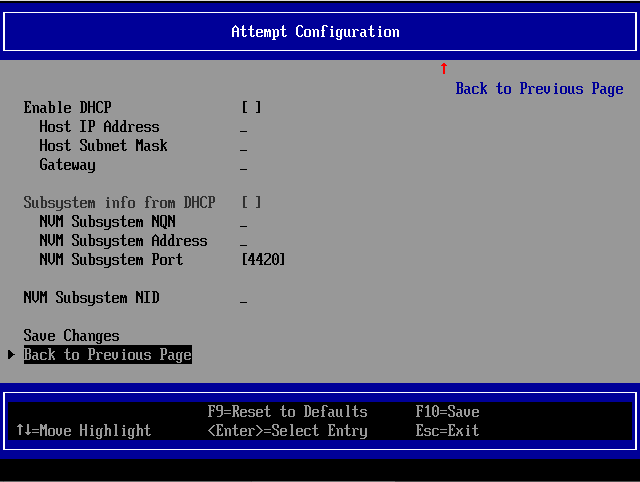
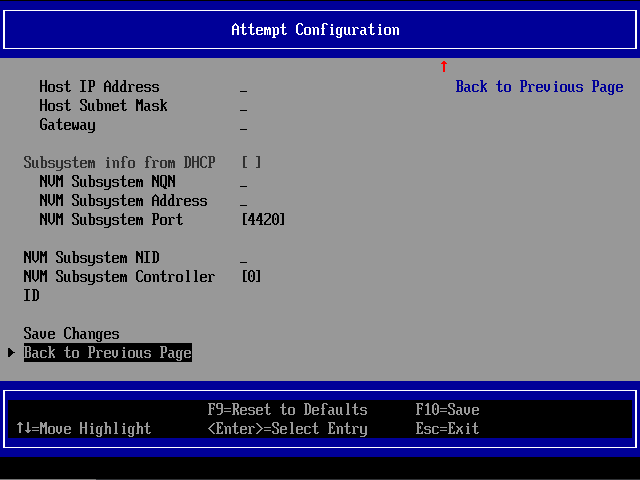
NetworkPkg/NvmeOfDxe: Add Controller ID support
Add Controller ID field to NVMeoF HII attempt pages.
Fix an issue with the Controller ID being incorrectly written to the
NBFT SSNS extended record.

diff --git a/NetworkPkg/NvmeOfDxe/NvmeOfConfig.c b/NetworkPkg/NvmeOfDxe/NvmeOfConfig.c
@@ -1,7 +1,7 @@
 /** @file
   Helper functions for configuring or getting the parameters relating to NVMe-oF.
 
-Copyright (c) 2023, Dell Inc. or its subsidiaries. All Rights Reserved.<BR>
+Copyright (c) 2023 - 2024, Dell Inc. or its subsidiaries. All Rights Reserved.<BR>
 SPDX-License-Identifier: BSD-2-Clause-Patent
 
 **/
@@ -503,10 +503,11 @@ NvmeOfConfigUpdateAttemptInfoList (
       NewAttempt                 = &AttemptInfo->Data;
       NewAttempt->NvmeofAuthType = NVMEOF_AUTH_TYPE_NONE;
 
-      SubsysConfigData                     = &NewAttempt->SubsysConfigData;
-      SubsysConfigData->NvmeofSubsysPortId = SUBSYS_PORT_DEFAULT;
-      SubsysConfigData->NvmeofTimeout      = CONNECT_DEFAULT_TIMEOUT;
-      SubsysConfigData->NvmeofRetryCount   = CONNECT_DEFAULT_RETRY;
+      SubsysConfigData                           = &NewAttempt->SubsysConfigData;
+      SubsysConfigData->NvmeofSubsysPortId       = SUBSYS_PORT_DEFAULT;
+      SubsysConfigData->NvmeofTimeout            = CONNECT_DEFAULT_TIMEOUT;
+      SubsysConfigData->NvmeofRetryCount         = CONNECT_DEFAULT_RETRY;
+      SubsysConfigData->NvmeofSubsysControllerId = NVMEOF_CONTROLLER_ID_DEFAULT;
     }
 
     //
@@ -984,10 +985,11 @@ NvmeOfConvertAttemptConfigDataToIfrNvData (
   SubsysConfigData  = &Attempt->SubsysConfigData;
   IfrNvData->IpMode = SubsysConfigData->NvmeofIpMode;
 
-  IfrNvData->HostInfoDhcp         = SubsysConfigData->HostInfoDhcp;
-  IfrNvData->NvmeofSubsysInfoDhcp = SubsysConfigData->NvmeofSubsysInfoDhcp;
-  IfrNvData->NvmeofTargetPort     = SubsysConfigData->NvmeofSubsysPortId;
-  IfrNvData->ConnectRetryCount    = SubsysConfigData->NvmeofRetryCount;
+  IfrNvData->HostInfoDhcp             = SubsysConfigData->HostInfoDhcp;
+  IfrNvData->NvmeofSubsysInfoDhcp     = SubsysConfigData->NvmeofSubsysInfoDhcp;
+  IfrNvData->NvmeofTargetPort         = SubsysConfigData->NvmeofSubsysPortId;
+  IfrNvData->ConnectRetryCount        = SubsysConfigData->NvmeofRetryCount;
+  IfrNvData->NvmeofSubsysControllerId = SubsysConfigData->NvmeofSubsysControllerId;
 
   AsciiStrToUnicodeStrS (
     Attempt->MacString,
@@ -1136,9 +1138,10 @@ NvmeOfConvertIfrNvDataToAttemptConfigData (
     NVMEOF_MAX_MAC_STRING_LEN
     );
 
-  SubsysConfigData                   = &Attempt->SubsysConfigData;
-  SubsysConfigData->NvmeofRetryCount = IfrNvData->ConnectRetryCount;
-  SubsysConfigData->NvmeofIpMode     = IfrNvData->IpMode;
+  SubsysConfigData                           = &Attempt->SubsysConfigData;
+  SubsysConfigData->NvmeofRetryCount         = IfrNvData->ConnectRetryCount;
+  SubsysConfigData->NvmeofIpMode             = IfrNvData->IpMode;
+  SubsysConfigData->NvmeofSubsysControllerId = IfrNvData->NvmeofSubsysControllerId;
 
   switch (IfrNvData->IpMode) {
     case IP_MODE_AUTOCONFIG:

diff --git a/NetworkPkg/NvmeOfDxe/NvmeOfNbft.c b/NetworkPkg/NvmeOfDxe/NvmeOfNbft.c
@@ -1,7 +1,7 @@
 /** @file
   Implementation for NVMeOF Boot Firmware Table publication.
 
-  Copyright (c) 2021 - 2023, Dell Inc. or its subsidiaries. All Rights Reserved.<BR>
+  Copyright (c) 2021 - 2024, Dell Inc. or its subsidiaries. All Rights Reserved.<BR>
   Copyright (c) 2022 - 2023, Intel Corporation. All rights reserved.<BR>
   SPDX-License-Identifier: BSD-2-Clause-Patent
 
@@ -750,8 +750,18 @@ NvmeOfFillSubsystemNamespaceSection (
     NvmeOfAddHeapItem (Heap, gNvmeOfNbftList[Index].Device->NameSpace->ctrlr->trid.subnqn, Len);
     SubsystemNamespace->SubsystemNamespaceNqnLen = Len;
 
+    //
     // Controller ID
-    SsnsExtInfo.ControllerId = gNvmeOfNbftList[Index].Device->NameSpace->ctrlr->cntlid;
+    // As per NVM Express Boot Specification, if Controller ID is not
+    // administratively specified or direct configuration is not supported,
+    // clear Controller ID in NBFT to 0.
+    //
+    if (gNvmeOfNbftList[Index].AttemptData->SubsysConfigData.NvmeofSubsysControllerId != NVMEOF_CONTROLLER_ID_DEFAULT) {
+      SsnsExtInfo.ControllerId = gNvmeOfNbftList[Index].Device->NameSpace->ctrlr->cntlid;
+    } else {
+      SsnsExtInfo.ControllerId = NVMEOF_CONTROLLER_ID_DEFAULT;
+    }
+
     if (gNvmeOfNbftList[Index].IsDiscoveryNqn) {
       // ASQSZ
       SsnsExtInfo.Asqsz = gNvmeOfNbftList[Index].Device->Asqsz;

diff --git a/NetworkPkg/NvmeOfDxe/NvmeOfConfigNVDataStruc.h b/NetworkPkg/NvmeOfDxe/NvmeOfConfigNVDataStruc.h
@@ -1,7 +1,7 @@
 /** @file
   Define NVData structures used by the NVMe-oF configuration component.
 
-Copyright (c) 2023, Dell Inc. or its subsidiaries. All Rights Reserved.<BR>
+Copyright (c) 2023 - 2024, Dell Inc. or its subsidiaries. All Rights Reserved.<BR>
 SPDX-License-Identifier: BSD-2-Clause-Patent
 
 **/
@@ -33,6 +33,10 @@ SPDX-License-Identifier: BSD-2-Clause-Patent
 #define NVMEOF_NID_GUID_STR   "nvme-nguid:"
 #define NVMEOF_NID_UUID_LEN   37
 #define NVMEOF_NID_UUID_STR   "urn:uuid:"
+
+#define NVMEOF_CONTROLLER_ID_MIN      0
+#define NVMEOF_CONTROLLER_ID_MAX      65534
+#define NVMEOF_CONTROLLER_ID_DEFAULT  0
 
 #define ATTEMPT_NAME_SIZE  12
 
@@ -136,7 +140,7 @@ typedef struct _NVMEOF_CONFIG_IFR_NVDATA {
   UINT16    NvmeofTargetPort;
   CHAR16    NvmeofSubsysNid[NVMEOF_NID_MAX_LEN];
 
-  CHAR16    NvmeofSubsysControllerId;
+  UINT16    NvmeofSubsysControllerId;
   // Subsystem or discovery controller NQN
   CHAR16    NvmeofSubsysNqn[NVMEOF_NAME_MAX_SIZE];
 

diff --git a/NetworkPkg/NvmeOfDxe/readme.md b/NetworkPkg/NvmeOfDxe/readme.md
@@ -826,7 +826,7 @@ The tooltip area for each configured attempt will contain the available device p
 
 #### 8.1.2. F2 → Device Manager → NVMe-oF Configuration → Attempt \<\#\>
 
-<img src="media/image044.png" style="width:6.5in;height:3.02778in" />
+<img src="media/image044.png" style="width:6.5in" />
 
 #### 8.1.3. F2 → Device Manager → NVMe-oF Configuration → Attempt \<\#\> → Network Device List
 
@@ -859,6 +859,7 @@ Table 1. Variables defined in the HII’s NVMEOF\_CONFIG\_IFR\_NVDATA struct.
 | CHAR16   | NvmeofSubsysIp\[NVMEOF\_TARGET\_URI\_MAX\_SIZE: 255\]           | If value is a valid IP string, assign to NV data’s TargetIp. Else, assign to NV data’s ServerName and set NvmeofDnsMode = TRUE |
 | UINT16   | NvmeofTargetPort                                                |                                                                                                                                |
 | CHAR16   | NvmeofSubsysNid\[NVMEOF\_NID\_MAX\_LEN: 37\]                    |                                                                                                                                |
+| UINT16   | NvmeofSubsysControllerId                                        |                                                                                                                                |
 | CHAR16   | NvmeofSubsysNqn\[NVMEOF\_NAME\_MAX\_SIZE: 224\]                 |                                                                                                                                |
 | CHAR16   | NvmeofSubsysSecurityPath\[HOST\_SECURITY\_PATH\_MAX\_LEN: 255\] | Not implemented in HII outside of a data placeholder for future driver version.                                                |
 | UINT8    | NvmeofAuthType                                                  | Not implemented in HII outside of a data placeholder for future driver version.                                                |
@@ -870,27 +871,28 @@ The below table describes the mapping of variables within NVMEOF\_CONFIG\_IFR\_N
 
 Table 2. Mapping of the HII’s NVMEOF\_CONFIG\_IFR\_NVDATA struct to the display name counterparts, as well as the default values and any formatting restrictions.
 
-| **Variable name**              | **Display name**         | **Default value**                                                            | **Description**                                                                                                                                                                                                                                                                                                |
-| ------------------------------ | ------------------------ | ---------------------------------------------------------------------------- | -------------------------------------------------------------------------------------------------------------------------------------------------------------------------------------------------------------------------------------------------------------------------------------------------------------- |
-| NvmeofHostNqn                  | Host NQN                 | Blank                                                                        | “nqn.” Followed by a non-zero payload & terminated with a null-character.                                                                                                                                                                                                                                      |
-| NvmeofHostId                   | Host ID                  | Blank                                                                        | UUID format.                                                                                                                                                                                                                                                                                                   |
-| AttemptName                    | NVMe-oF Attempt Name     | Automatically configured                                                     | Formatted as “Attempt \<\#\>”                                                                                                                                                                                                                                                                                  |
-| Enabled                        | NVM Subsystem            | Disabled                                                                     | Enable/Disable the specific NVMe-oF attempt.                                                                                                                                                                                                                                                                   |
-| NvmeofSubsysMacString          | NVMe-oF Network Device   | Blank, automatically filled via user selection in “Network Device List” form | Formatted as standard or VLAN-tagged MAC string ( xx:xx:xx:xx:xx:xx or xx:xx:xx:xx:xx:xx\\000A)                                                                                                                                                                                                                |
-| IpMode                         | Internet Protocol        | IP4                                                                          | IP4, IP6, Autoconfigure                                                                                                                                                                                                                                                                                        |
-| ConnectRetryCount              | Connection Retry Count   | 3                                                                            | 0 – 16                                                                                                                                                                                                                                                                                                         |
-| HostInfoDhcp                   | Enable DHCP              | Disabled                                                                     |                                                                                                                                                                                                                                                                                                                |
-| NvmeofSubsysHostIp             | Host IP Address          | Blank                                                                        | Valid Ipv4/Ipv6 unicast address format.                                                                                                                                                                                                                                                                        |
-| NvmeofSubsysHostSubnetMask     | Host Subnet Mask         | Blank                                                                        | Only Ipv4. Valid subnet mask in dotted-decimal notation.                                                                                                                                                                                                                                                       |
-| NvmeofSubsysHostGateway        | Gateway                  | Blank                                                                        | Valid Ipv4/Ipv6 unicast address format.                                                                                                                                                                                                                                                                        |
-| NvmeofSubsysInfoDhcp           | Subsystem info from DHCP | Disabled                                                                     |                                                                                                                                                                                                                                                                                                                |
-| NvmeofSubsysNqn                | NVM Subsystem NQN        | Blank                                                                        | “nqn.” Followed by a non-zero payload terminated with a null-character.                                                                                                                                                                                                                                        |
-| NvmeofSubsysIp                 | NVM Subsystem Address    | Blank                                                                        | Valid Ipv4/Ipv6 unicast format. Failing that, treated as a URL.                                                                                                                                                                                                                                                |
-| NvmeofTargetPort               | NVM Subsystem Port       | 4420                                                                         | 0 – 65535                                                                                                                                                                                                                                                                                                      |
-| NvmeofSubsysNid                | NVM Subsystem NID        | Blank                                                                        | EUI64, NGUID, or UUID format ([NVMe base spec, section 5.17.2.3](https://nvmexpress.org/wp-content/uploads/NVM-Express-Base-Specification-2.0b-2021.12.18-Ratified.pdf) and [NVMe boot spec section 1.5.9](https://nvmexpress.org/wp-content/uploads/NVM-Express-Boot-Specification-2022.11.15-Ratified.pdf)). |
-| NvmeofAuthType                 | N/A                      | Blank                                                                        | Data placeholder.                                                                                                                                                                                                                                                                                              |
-| NvmeofSubsysSecurityPath       | N/A                      | Blank                                                                        | Data placeholder.                                                                                                                                                                                                                                                                                              |
-| NvmeofSubsysSecuritySecretType | N/A                      | Blank                                                                        | Data placeholder. See [NVMe boot spec, section 3.1.2.6 (Figure 21)](https://nvmexpress.org/wp-content/uploads/NVM-Express-Boot-Specification-2022.11.15-Ratified.pdf)
+| **Variable name**              | **Display name**            | **Default value**                                                            | **Description**                                                                                                                                                                                                                                                                                                |
+| ------------------------------ | --------------------------- | ---------------------------------------------------------------------------- | -------------------------------------------------------------------------------------------------------------------------------------------------------------------------------------------------------------------------------------------------------------------------------------------------------------- |
+| NvmeofHostNqn                  | Host NQN                    | Blank                                                                        | “nqn.” Followed by a non-zero payload & terminated with a null-character.                                                                                                                                                                                                                                      |
+| NvmeofHostId                   | Host ID                     | Blank                                                                        | UUID format.                                                                                                                                                                                                                                                                                                   |
+| AttemptName                    | NVMe-oF Attempt Name        | Automatically configured                                                     | Formatted as “Attempt \<\#\>”                                                                                                                                                                                                                                                                                  |
+| Enabled                        | NVM Subsystem               | Disabled                                                                     | Enable/Disable the specific NVMe-oF attempt.                                                                                                                                                                                                                                                                   |
+| NvmeofSubsysMacString          | NVMe-oF Network Device      | Blank, automatically filled via user selection in “Network Device List” form | Formatted as standard or VLAN-tagged MAC string ( xx:xx:xx:xx:xx:xx or xx:xx:xx:xx:xx:xx\\000A)                                                                                                                                                                                                                |
+| IpMode                         | Internet Protocol           | IP4                                                                          | IP4, IP6, Autoconfigure                                                                                                                                                                                                                                                                                        |
+| ConnectRetryCount              | Connection Retry Count      | 3                                                                            | 0 – 16                                                                                                                                                                                                                                                                                                         |
+| HostInfoDhcp                   | Enable DHCP                 | Disabled                                                                     |                                                                                                                                                                                                                                                                                                                |
+| NvmeofSubsysHostIp             | Host IP Address             | Blank                                                                        | Valid Ipv4/Ipv6 unicast address format.                                                                                                                                                                                                                                                                        |
+| NvmeofSubsysHostSubnetMask     | Host Subnet Mask            | Blank                                                                        | Only Ipv4. Valid subnet mask in dotted-decimal notation.                                                                                                                                                                                                                                                       |
+| NvmeofSubsysHostGateway        | Gateway                     | Blank                                                                        | Valid Ipv4/Ipv6 unicast address format.                                                                                                                                                                                                                                                                        |
+| NvmeofSubsysInfoDhcp           | Subsystem info from DHCP    | Disabled                                                                     |                                                                                                                                                                                                                                                                                                                |
+| NvmeofSubsysNqn                | NVM Subsystem NQN           | Blank                                                                        | “nqn.” Followed by a non-zero payload terminated with a null-character.                                                                                                                                                                                                                                        |
+| NvmeofSubsysIp                 | NVM Subsystem Address       | Blank                                                                        | Valid Ipv4/Ipv6 unicast format. Failing that, treated as a URL.                                                                                                                                                                                                                                                |
+| NvmeofTargetPort               | NVM Subsystem Port          | 4420                                                                         | 0 – 65535                                                                                                                                                                                                                                                                                                      |
+| NvmeofSubsysNid                | NVM Subsystem NID           | Blank                                                                        | EUI64, NGUID, or UUID format ([NVMe base spec, section 5.17.2.3](https://nvmexpress.org/wp-content/uploads/NVM-Express-Base-Specification-2.0b-2021.12.18-Ratified.pdf) and [NVMe boot spec section 1.5.9](https://nvmexpress.org/wp-content/uploads/NVM-Express-Boot-Specification-2022.11.15-Ratified.pdf)). |
+| NvmeofSubsysControllerId       | NVM Subsystem Controller ID | 0                                                                            | 0 - 65534                                                                                                                                                                                                                                                                                                      |
+| NvmeofAuthType                 | N/A                         | Blank                                                                        | Data placeholder.                                                                                                                                                                                                                                                                                              |
+| NvmeofSubsysSecurityPath       | N/A                         | Blank                                                                        | Data placeholder.                                                                                                                                                                                                                                                                                              |
+| NvmeofSubsysSecuritySecretType | N/A                         | Blank                                                                        | Data placeholder. See [NVMe boot spec, section 3.1.2.6 (Figure 21)](https://nvmexpress.org/wp-content/uploads/NVM-Express-Boot-Specification-2022.11.15-Ratified.pdf)
 
 ### 8.3. HII ↔ NVMe-oF driver communication
 
@@ -948,7 +950,7 @@ Table 5. Mapping the NVMEOF\_SUBSYSTEM\_CONFIG\_NVDATA structure variables to th
 | ServerName                             |                                  |                                                                                                                                        |
 | NvmeofPrefixLength                     | N/A                              | Internal use by NVMe-oF driver                                                                                                         |
 | NvmeofTransportPort                    | N/A                              | Internal use by NVMe-oF driver                                                                                                         |
-| NvmeofSubsysControllerId               | N/A                              | Placeholder in HII currently.                                                                                                          |
+| NvmeofSubsysControllerId               | NvmeofSubsysControllerId         | User-configured                                                                                                                        |
 | NvmeofSubsysNid                        | NvmeofSubsysNid                  | User-configured                                                                                                                        |
 | NvmeofSubsysNqn                        | NvmeofSubsysNqn                  | User-configured                                                                                                                        |
 | NvmeofTransportGuid                    | N/A                              | Internal use by NVMe-oF driver                                                                                                         |
@@ -1007,7 +1009,7 @@ Under each attempt, the form link for “Network Device List” operates in the 
 
 Figure 6. Network device list form link located on the NVMe-oF attempt configuration form.
 
-<img src="media/imag052.png" style="width:4.39278in;height:3.25in" />
+<img src="media/image052.png" style="width:4.39278in;height:3.25in" />
 
 Figure 7. Entering the Network Device List menu. This image shows 3 standard MAC strings and a VLAN-configured MAC available for selection. Note that VLAN must be preconfigured for a given network device before it is available for selection.
 
